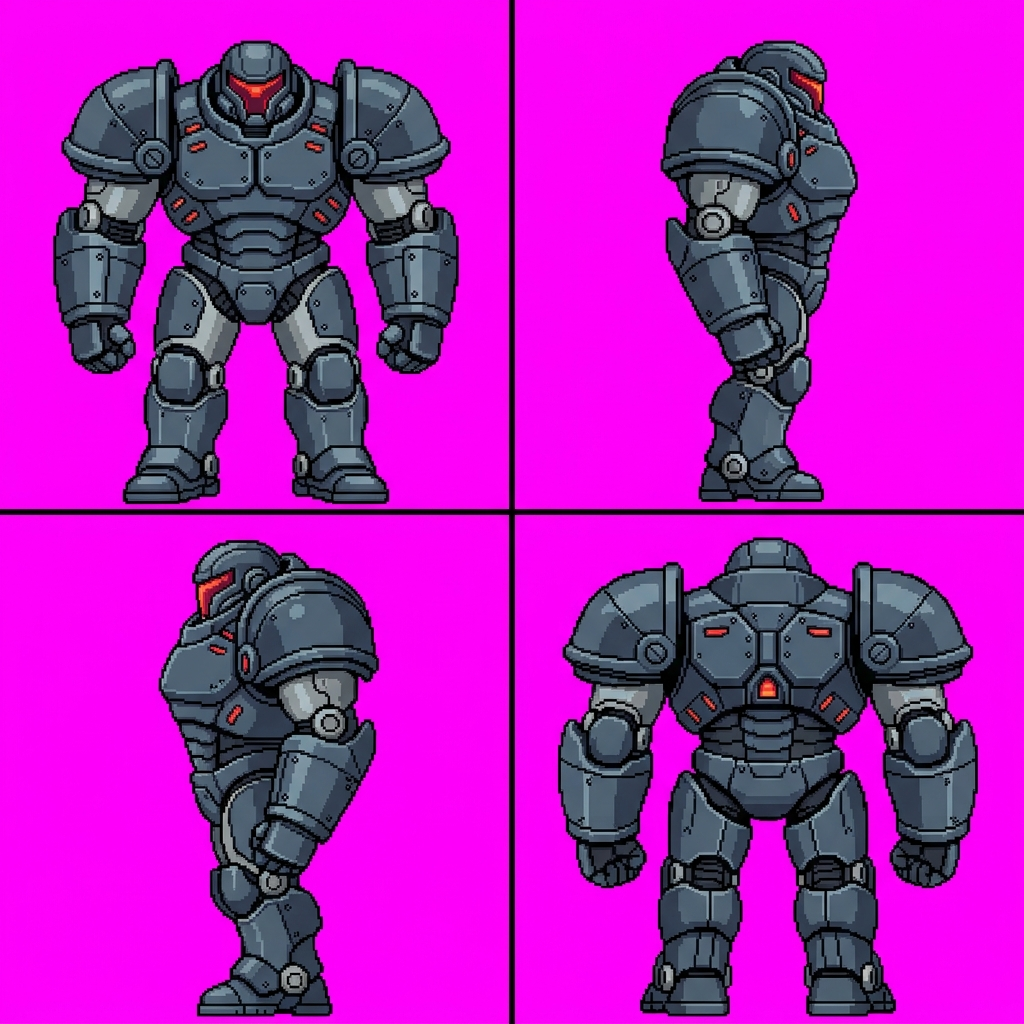
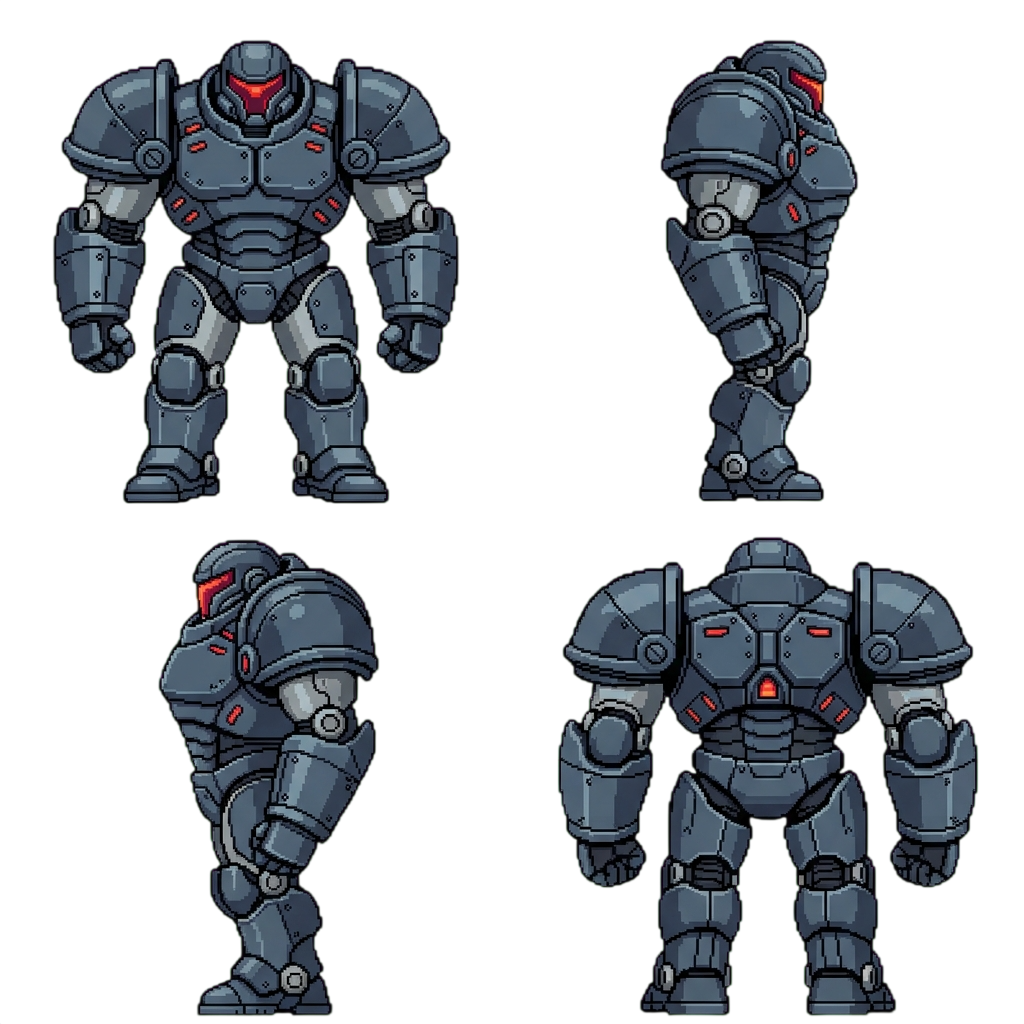
netoyage du caca de thomas

diff --git a/src/enemies/enemies_entity.py b/src/enemies/enemies_entity.py
@@ -1,45 +1,23 @@
 import pygame as pg
-
 from entity import Entity
 
-
-class Enemy(Entity):
-    def __init__(self, x: int, y: int, width: int = 64, height: int = 64, hp: int = 30, attack: int = 10, speed: int = 1, aggro_range: int = 100):
-        
-        super().__init__(x, y, color=(255, 0, 0), width=width, height=height, hp=hp, attack=attack, speed=speed)
+# TODO suppr color
+class EnemiesEntity(Entity):
+    def __init__(self, x: int, y: int, width: int, height: int, hp: int, attack: int, speed: int, aggro_range: int):
+        super().__init__(x, y, color=(255, 0, 0), width=width, height=height, hp=hp, attack=attack, speed=speed)   
 
         self.max_hp = hp
         self.aggro_range = aggro_range
-        
         self.width = width
         self.height = height
 
+        self.images = {}
+        self.current_direction = 'down'
 
-        original_sheet = pg.image.load('assets/characters/sprite_robot.png').convert_alpha()
-        self.sprite_sheet = pg.transform.scale(original_sheet, (96, 128))
-
-        self.images = {
-            'down': pg.transform.scale(self.get_image(32, 0), (self.width, self.height)),
-            'left': pg.transform.scale(self.get_image(64, 32), (self.width, self.height)),
-            'right': pg.transform.scale(self.get_image(0, 32), (self.width, self.height)),
-            'up': pg.transform.scale(self.get_image(32, 96), (self.width, self.height))
-        }
-
-        small_image = self.get_image(64, 0)
-        self.image = pg.transform.scale(small_image, (self.width, self.height))
-
-        self.rect = self.image.get_rect(topleft=(x, y))
-
-        self.feet = pg.Rect(0, 0, self.rect.width // 2, 12)
-        self.feet.midbottom = self.rect.midbottom
-
-    def get_image(self, x, y):
-        image = pg.Surface([32, 32], pg.SRCALPHA)
-        image.blit(self.sprite_sheet, (0, 0), (x, y, 32, 32))
-        return image
-
-    def change_animation(self, name):
-        self.image = self.images[name]
+    def change_animation(self, name: str):
+        if self.current_direction != name and name in self.images:
+            self.current_direction = name
+            self.image = self.images[name]
 
     def move_axis(self, movement_x: int, movement_y: int, walls: list[pg.Rect] | None) -> bool:
         next_rect = self.rect.move(movement_x, movement_y)
@@ -56,44 +34,50 @@ class Enemy(Entity):
     def update(self, player, walls: list[pg.Rect] | None = None) -> None:
         attack_range = self.get_aggro_range()
 
-        # si le joueur entre dans la range l'enemie lui fonce dessus
         if player.rect.colliderect(attack_range):
+            dx = player.rect.centerx - self.rect.centerx
+            dy = player.rect.centery - self.rect.centery
+
+            # Déplacement X
             if self.rect.x < player.rect.x:
-                self.change_animation('right')
                 self.move_axis(self.speed, 0, walls)
             elif self.rect.x > player.rect.x:
-                self.change_animation('left')
                 self.move_axis(-self.speed, 0, walls)
-                
+
+            # Déplacement Y
             if self.rect.y < player.rect.y:
-                self.change_animation('down')
                 self.move_axis(0, self.speed, walls)
             elif self.rect.y > player.rect.y:
-                self.change_animation('up')
                 self.move_axis(0, -self.speed, walls)
+
+            # Animation
+            if abs(dx) > abs(dy):
+                if dx > 0:
+                    self.change_animation('right')
+                else:
+                    self.change_animation('left')
+            else:
+                if dy > 0:
+                    self.change_animation('down')
+                elif dy < 0:
+                    self.change_animation('up')
 
     def draw_hp_bar(self, surface: pg.Surface, offset_rect: pg.Rect) -> None:
         if self.hp > 0:
             ratio = self.hp / self.max_hp
-            
             bar_width = offset_rect.width
             bar_height = 5
-            
             x = offset_rect.x
             y = offset_rect.y
             
             pg.draw.rect(surface, (50, 50, 50), (x, y, bar_width, bar_height))
             pg.draw.rect(surface, (255, 50, 50), (x, y, bar_width * ratio, bar_height))
 
-    # affiche la zone d'agrro
     def draw_aggro_range(self, surface: pg.Surface, offset_rect: pg.Rect) -> None:        
         calque = pg.Surface((self.aggro_range * 2, self.aggro_range * 2), pg.SRCALPHA)
-       
         pg.draw.circle(calque, (240, 128, 128, 100), (self.aggro_range, self.aggro_range), self.aggro_range, 0)
-        
         pos_x = offset_rect.centerx - self.aggro_range
         pos_y = offset_rect.centery - self.aggro_range
-        
         surface.blit(calque, (pos_x, pos_y))
 
     def get_aggro_range(self) -> pg.Rect:

diff --git a/src/enemies/boss.py b/src/enemies/boss.py
@@ -1,0 +1,35 @@
+import pygame as pg
+
+from enemies.enemies_entity import EnemiesEntity
+
+class Boss(EnemiesEntity):
+    def __init__(self, x: int, y: int, width: int = 128, height: int = 128, hp: int = 200, attack: int = 20, speed: int = 1, aggro_range: int = 300):
+        super().__init__(x, y, width=width, height=height, hp=hp, attack=attack, speed=speed, aggro_range=aggro_range)
+
+        original_sheet = pg.image.load('assets/characters/boss_robot_walk.png').convert_alpha()
+        self.sprite_sheet = original_sheet
+
+        cw = 506
+        ch = 506
+
+        self.images = {
+            'down':  self.get_image(0, 0, cw, ch),
+            'left':  self.get_image(518, 0, cw, ch),
+            'right': self.get_image(0, 518, cw, ch),
+            'up':    self.get_image(518, 5138, cw, ch),
+        }
+
+        self.image = self.images[self.current_direction]
+        self.rect = self.image.get_rect(topleft=(x, y))
+
+        # Adjust the feet rect for collision (plus grand pour le boss)
+        self.feet = pg.Rect(0, 0, self.rect.width // 2, 24)
+        self.feet.midbottom = self.rect.midbottom
+
+    def get_image(self, src_x, src_y, cell_w, cell_h):
+        # Crée une surface transparente de la taille de la case brute
+        image = pg.Surface([cell_w, cell_h], pg.SRCALPHA)
+        # Découpe la bonne partie de la grille
+        image.blit(self.sprite_sheet, (0, 0), (src_x, src_y, cell_w, cell_h))
+        # Redimensionne directement à la taille finale d'affichage (128x128)
+        return pg.transform.scale(image, (self.width, self.height))

diff --git a/src/enemies/enemy.py b/src/enemies/enemy.py
@@ -1,0 +1,35 @@
+import pygame as pg
+
+from enemies.enemies_entity import EnemiesEntity
+
+class Enemy(EnemiesEntity):
+    def __init__(self, x: int, y: int, width: int = 64, height: int = 64, hp: int = 30, attack: int = 10, speed: int = 1, aggro_range: int = 100):
+        
+        super().__init__(x, y, width=width, height=height, hp=hp, attack=attack, speed=speed, aggro_range=aggro_range)
+
+        original_sheet = pg.image.load('assets/characters/sprite_robot.png').convert_alpha()
+        self.sprite_sheet = pg.transform.scale(original_sheet, (96, 128))
+
+        self.images = {
+            'down': pg.transform.scale(self.get_image(32, 0), (self.width, self.height)),
+            'left': pg.transform.scale(self.get_image(64, 32), (self.width, self.height)),
+            'right': pg.transform.scale(self.get_image(0, 32), (self.width, self.height)),
+            'up': pg.transform.scale(self.get_image(32, 96), (self.width, self.height))
+        }
+
+        small_image = self.get_image(64, 0)
+        self.image = pg.transform.scale(small_image, (self.width, self.height))
+
+        self.rect = self.image.get_rect(topleft=(x, y))
+
+        self.feet = pg.Rect(0, 0, self.rect.width // 2, 12)
+        self.feet.midbottom = self.rect.midbottom
+
+    def get_image(self, x, y):
+        image = pg.Surface([32, 32], pg.SRCALPHA)
+        image.blit(self.sprite_sheet, (0, 0), (x, y, 32, 32))
+        return image
+
+    def change_animation(self, name):
+        self.image = self.images[name]
+

diff --git a/src/utils_wave.py b/src/utils_wave.py
@@ -1,7 +1,8 @@
 import random
 import pygame as pg
 
-from enemy import Enemy
+from enemies.enemy import Enemy
+
 
 def get_enemies_of_waves(self, min_id_enemy, max_id_enemy, nb_enemies) -> pg.sprite.Group:
     id_enemies_selected: list[int] = []

diff --git a/src/scenarioManager.py b/src/scenarioManager.py
@@ -1,6 +1,6 @@
 import pygame as pg
+from enemies.boss import Boss
 from waves import Waves
-from boss import Boss
 from utils_wave import get_enemies_of_waves
 from utils_wave import get_enemies_of_waves
 
